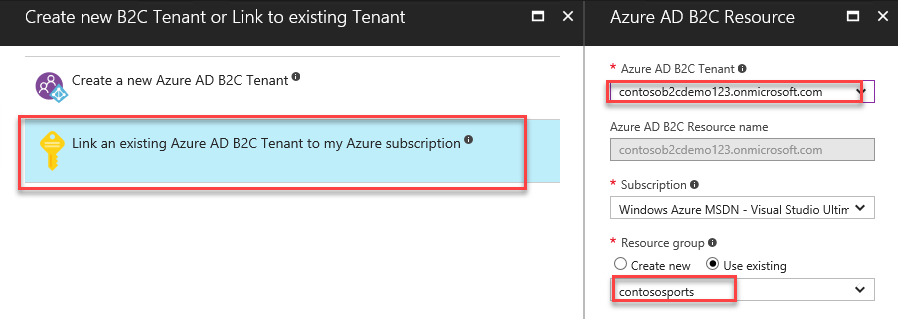
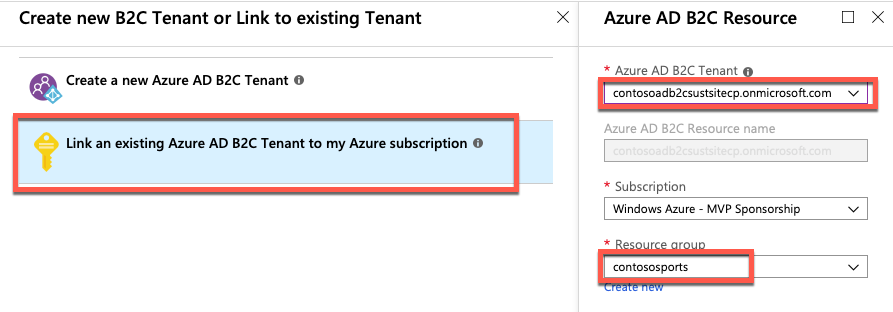
work on test/fix

diff --git a/Hands-on lab/HOL step-by-step - Modern cloud apps.md b/Hands-on lab/HOL step-by-step - Modern cloud apps.md
@@ -1091,13 +1091,15 @@ In this exercise, you will configure an Azure AD Business to Consumer (B2C) inst
 
 3. Click on the orange **No Subscription** message for instructions on how to link to an active subscription.
 
-    ![In the Azure Portal, on the left, the \"No subscription linked to this B2C tenant or the Subscription needs your attention\" message is selected. On the right, under Subscription reminder, the three steps to link the B2C tenant to an Azure subscription are circled.](images/Hands-onlabstep-by-step-Moderncloudappsimages/media/image158.png "Azure Portal")
+    ![In the Azure Portal, on the left, the \"No subscription linked to this B2C tenant or the Subscription needs your attention\" message is selected.](images/Hands-onlabstep-by-step-Moderncloudappsimages/media/image158.png "Azure Portal")
+
+    ![the three steps to link the B2C tenant to an Azure subscription are circled.](media/2019-08-25-17-45-26.png "Azure Portal")
 
     >**Note**: Essentially, you will need to switch back to your previous Azure AD tenant, and then launch the Azure AD B2C creation wizard again.
 
 4. Click on **Link an existing Azure AD B2C Tenant to my Azure subscription,** and select the Tenant you just created in the dropdown list and the existing resource group **contososports**. Then, click **Create**.
 
-    ![In the Create new B2C Tenant or Link to existing Tenant blade, on the left, Link an existing Azure AD B2C Tenant to my Azure subscription is selected. On the right, in the Azure AD B2C Resource blade, the Azure AD B2C Tenant drop-down field is contosob2cdemo123.onmicrosoft.com. The Resource group is using the existing contososports.](images/Hands-onlabstep-by-step-Moderncloudappsimages/media/image159.png "Create new B2C Tenant or Link to existing Tenant")
+    ![In the Create new B2C Tenant or Link to existing Tenant blade, on the left, Link an existing Azure AD B2C Tenant to my Azure subscription is selected. On the right, in the Azure AD B2C Resource blade, the Azure AD B2C Tenant drop-down field is contosodb2ccustsitecp.onmicrosoft.com. The Resource group is using the existing contososports.](images/Hands-onlabstep-by-step-Moderncloudappsimages/media/image159.png "Create new B2C Tenant or Link to existing Tenant")
 
 5. After creation completes, open the new Azure AD B2C tenant by clicking **Resource Groups** in the navigation menu to the left and, then, **contososports**. Then, in the new blade, click the B2C tenant you just created.
 
